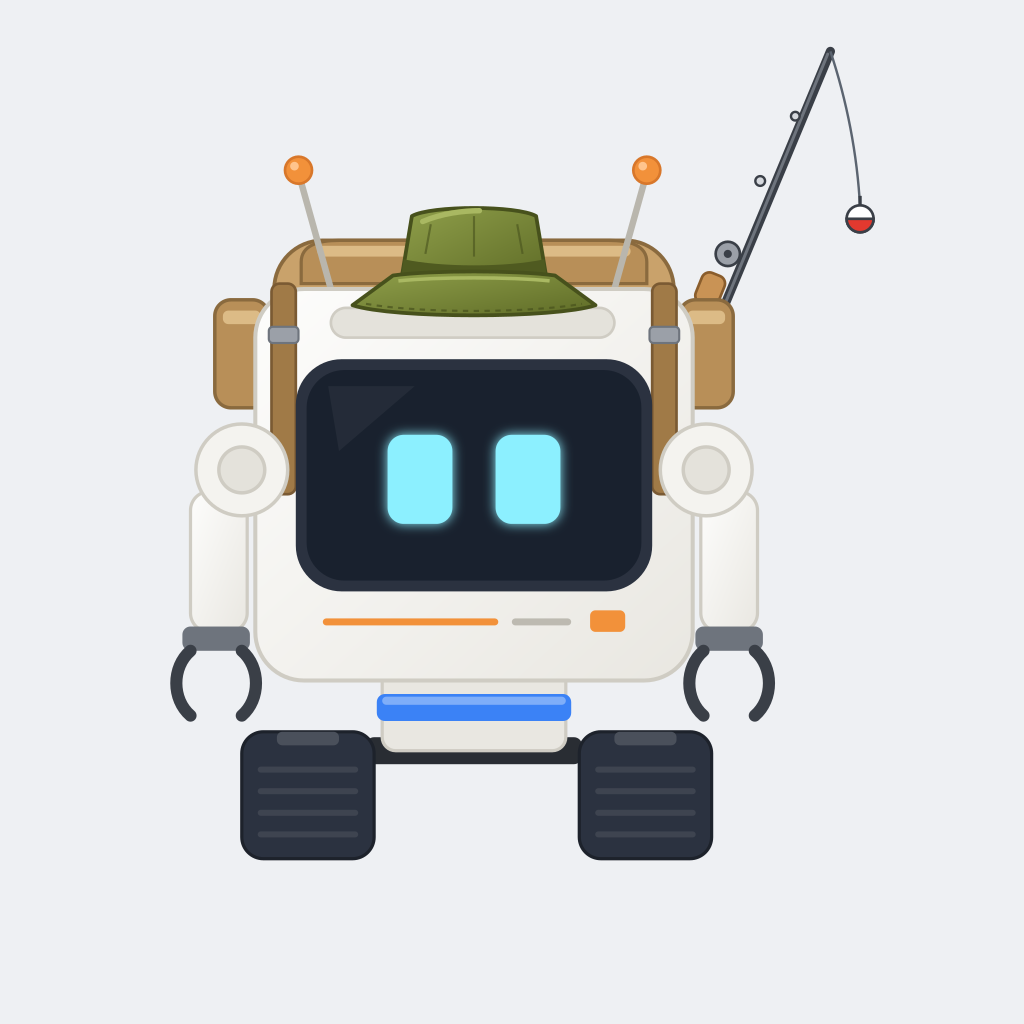
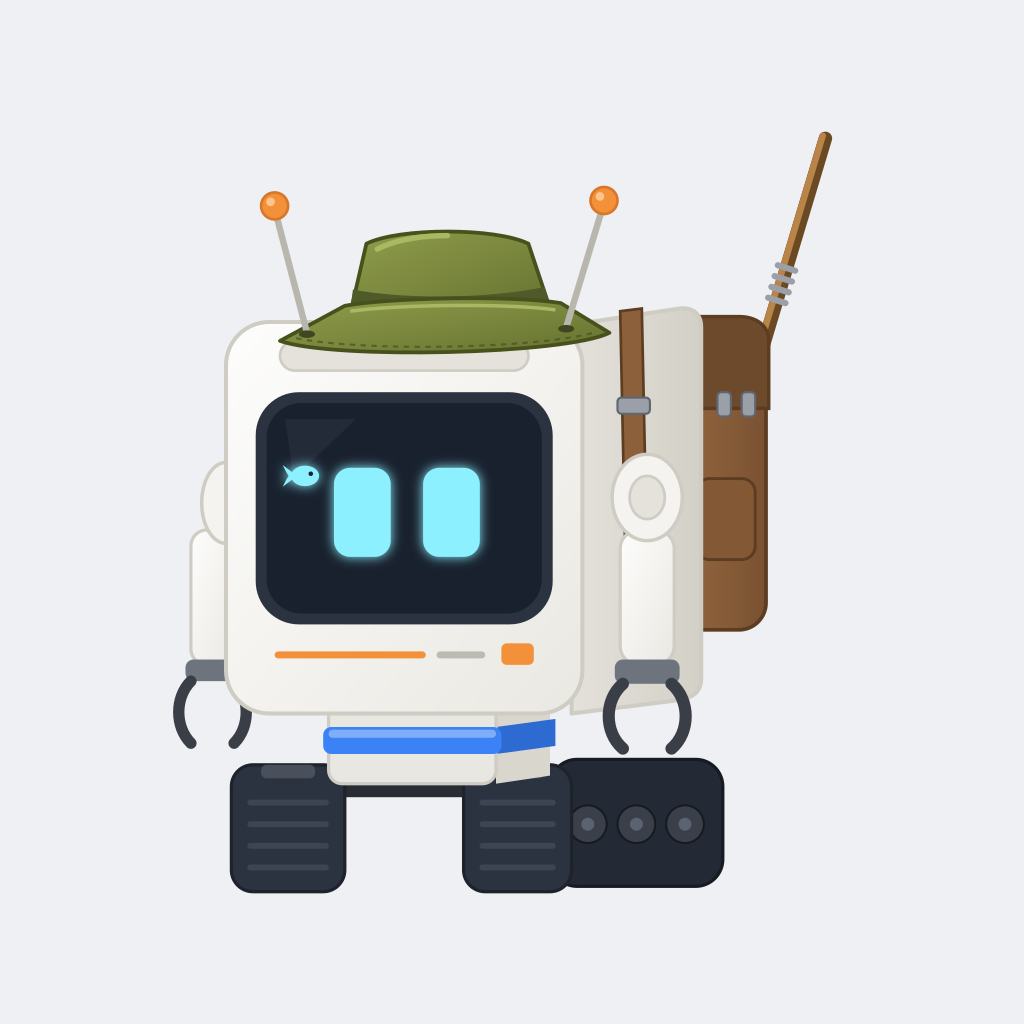
docs: define o Pescador

Changed region(s): [[0.1562, 0.0312, 0.875, 0.875]]

diff --git a/_docs/funcionalidades/trabalhos/pescador.md b/_docs/funcionalidades/trabalhos/pescador.md
@@ -1,18 +1,18 @@
 # Pescador
 
-Conceito do trabalho de Pescador, da Fase 5.2. Nada aqui está implementado, e o documentado pode mudar se aparecer um impedimento técnico (regra 48 do `AGENTS.md`). Ele complementa [`trabalhos.md`](../trabalhos.md), cujas regras de toda área valem aqui.
+Conceito do trabalho de Pescador, da Fase 5.2, entregue no card #194. O documentado pode mudar se aparecer um impedimento técnico (regra 48 do `AGENTS.md`). Ele complementa [`trabalhos.md`](../trabalhos.md), cujas regras de toda área e a [base do trabalho](../trabalhos.md#base-do-trabalho) valem aqui.
 
-**Situação:** o comportamento base está decidido na [pergunta 248](../../perguntas/fase-5-trabalhos.md). O tier mínimo, o Avançado, está decidido na pergunta 1145. A evolução por tier é proposta, e os detalhes em aberto são respondidos no refinamento do card (perguntas 1153 e 1154).
+**Situação:** decidido. O comportamento base vem da [pergunta 248](../../perguntas/fase-5-trabalhos.md), o tier mínimo, o Avançado, da pergunta 1145, e o refinamento do card, das perguntas 1181 a 1204. Os números ficam em [`tiers.md`](../../tiers.md#trabalhos).
 
 ## A ideia
 
-Um Cubit que pesca sozinho numa área com água aberta, sem vara e sem boia, e guarda o que pegar. É o trabalho mais simples da lista e um dos dois primeiros da ordem de entrega, junto do Fazendeiro.
+Um Cubit que pesca sozinho na água da área marcada, sem vara e sem boia de verdade, e guarda o que pegar. É o primeiro trabalho da ordem de entrega.
 
 ## Imagem conceito
 
 ![O Cubit Pescador](../../imagens/conceito/trabalhos/pescador.png)
 
-Aceita como conceito (pergunta 1177). A vara é só visual: no visual do Pescador, ele a segura, mas a pesca continua sem vara e sem boia, como na pergunta 248. O visual final é decidido no card da personalização.
+O visual da pergunta 1196, com o chapéu, a mochila com a vara e o ícone de peixe na tela, aceito na pergunta 1212. Substitui a imagem da pergunta 1177.
 
 ## Card
 
@@ -22,41 +22,106 @@ Aceita como conceito (pergunta 1177). A vara é só visual: no visual do Pescado
 
 Segue as regras dos outros cards: slot exclusivo, um por Cubit, sai sem perda e só age em área marcada. Disponível a partir do Avançado.
 
+### Receita
+
+Com forma, em JSON gerado por datagen e só com materiais do jogo puro (pergunta 1192):
+
+```text
+P C P
+R F R
+P R P
+```
+
+| Letra | Item | Quantidade |
+|---|---|---|
+| `P` | Papel | 4 |
+| `C` | Comparador | 1 |
+| `R` | Redstone | 3 |
+| `F` | Vara de pesca | 1 |
+
+## Como o player o põe para pescar
+
+Sem app novo no Tablet (pergunta 1186). Com o card no slot:
+
+1. O app Área marca os dois cantos da área, como no [modo área](../modo-area.md). A área de um Cubit com o card do Pescador é a área de pesca.
+2. O app Descarga marca o baú onde ele guarda o que pescou, como na [descarga em baú](../inventario.md#descarregar-em-baú).
+
+O app de marcar blocos do trabalho (pergunta 1155) continua para o primeiro card que precisar dele.
+
 ## Como ele trabalha
 
-Definido na pergunta 248:
+### O ponto de pesca
 
-- **Onde:** na área marcada com água aberta.
-- **Como:** pesca pela tabela de pesca do jogo, em intervalos do config, gastando FE, sem vara e sem boia.
-- **Inventário cheio:** descarrega no baú marcado. Sem onde descarregar, hiberna.
+- **Varredura:** ele procura, dentro da área e só nos chunks carregados, um lugar livre, de pé, na margem de água-fonte, e um ponto de água-fonte a até 6 blocos dele, o alcance do lançamento. Dá preferência a um ponto com água aberta, que libera o tesouro. O lugar e o ponto ficam dentro da área (perguntas 1188 e 1208).
+- **Quando varre:** ao chegar na área, ao acordar pelo `Retomar` e quando o ponto deixa de servir, com o limite de blocos lidos por tick de [`tiers.md`](../../tiers.md#valores-gerais). Pescando, ele confere o ponto a cada pesca (pergunta 1204). A água aberta pede um lago com mais de 5×5 blocos e 2 de fundo, porque a margem não pode cair no volume de 5×5 em volta do ponto.
+- **Vários Pescadores:** cada um reserva o seu ponto, e outro não o usa (pergunta 1189). O limite de Cubits por área continua o mesmo.
+- **Sem ponto:** se a varredura completa não achar ponto livre, ele hiberna fora do Dock pelo motivo `No water in the area` / `Sem água na área`, com o texto curto `I can't find water to fish here` / `Não acho água para pescar aqui`. O texto sai uma vez ao hibernar, e de novo se o `Retomar` não resolver (perguntas 1187, 1188 e 1195).
 
-## Evolução por tier (proposta)
+### A pesca
 
-O tier melhora o que o card faz (pergunta 192). Proposta no mesmo meio-termo das opções do Minerador (pergunta 202):
+- **Tempo:** como no jogo (pergunta 1184). A espera é sorteada entre 100 e 600 ticks, menos 100 por nível de Isca, e depois vem a mordida, de 20 a 80 ticks. Na chuva, cada tick tem 25% de chance de contar dois, e, sem céu, 50% de chance de não contar. Os limites ficam no config. Na média, uma pesca leva cerca de 20 s sem Isca e cerca de 7 s com Isca III.
+- **Prêmio:** sai da tabela do jogo, `minecraft:gameplay/fishing`, com a Sorte do Mar do tier somada à sorte. O jogo dá tesouro só em água aberta e confere isso pela boia, então o Cubit usa uma boia virtual, fora do mundo, só para a conta.
+- **Água aberta:** a regra do jogo, de `FishingHook.calculateOpenWater`: um volume de 5×4×5 em volta do ponto na água, em camadas, só com água-fonte embaixo e ar ou vitória-régia em cima. Fora dela, ele pesca só peixe e lixo (pergunta 1183).
+- **Custo:** um valor fixo de FE por peixe pescado. Parado, o Cubit não gasta nada, e a espera também não (pergunta 1190).
+- **Experiência:** nenhuma. O Cubit não é um player e não gera orbes (pergunta 1203).
+- **Lixo:** com a chave `Keep junk` / `Guardar lixo` desligada, o lixo pescado é descartado sem entrar no inventário nem ir para o chão. Ela fica ligada por padrão (pergunta 1191). Lixo é o item da tag `cubit:fishing_junk`, com os itens do lixo da tabela do jogo, e um item encantado nunca é lixo, para a vara e o arco do tesouro ficarem (pergunta 1207).
+- **Inventário cheio:** descarrega no baú marcado. Sem onde descarregar, hiberna pelo inventário cheio, como na base.
+
+### Na tabela do jogo
+
+Os pesos, conferidos em `gameplay/fishing.json`, são o peso mais a qualidade vezes a sorte:
+
+| Grupo | Peso | Qualidade | Sem Sorte do Mar | Sorte do Mar III |
+|---|---|---|---|---|
+| Lixo | 10 | −2 | 10% | ~4% |
+| Tesouro, só em água aberta | 5 | +2 | 5% | ~11% |
+| Peixe | 85 | −1 | 85% | ~85% |
+
+## Evolução por tier
+
+Decidida na pergunta 1185, com os valores no config:
 
 | Recurso | Avançado | Elite | Ultimate |
 |---|---|---|---|
-| Intervalo entre pescas | Base do config | Menor | Menor ainda |
 | Isca (pesca mais rápido) | — | II | III |
-| Sorte do Mar (mais tesouro) | — | II | III |
+| Sorte do Mar (mais tesouro, menos lixo) | — | II | III |
 
-## Em aberto
+## Aba Trabalho
 
-Cada item traz a recomendação atual, ainda sem resposta.
+Além do que a base mostra, a aba ganha a chave `Keep junk` / `Guardar lixo`, ligada por padrão. Ela fica no NBT da entidade e no item do Cubit, como as outras chaves (pergunta 1191). Hibernando sem água, a aba mostra `Hibernating · No water in the area` / `Hibernando · Sem água na área`.
 
-1. **O que é água aberta.** Recomendação: a mesma regra do jogo para a pesca de tesouro, num bloco de água com água ao redor. Fora dela, ele pesca só a tabela comum, como no jogo.
-2. **Onde ele fica.** Recomendação: na borda da água, dentro da área. Se não houver água na área, avisa e hiberna.
-3. **Opções no meio-termo.** Recomendação: Isca e Sorte do Mar como na tabela acima, com os valores no config.
-4. **Vários Pescadores na mesma água.** Recomendação: cada um reserva um ponto da borda, até o limite de Cubits por área.
-5. **Filtro.** Recomendação: um filtro na aba Trabalho para descartar lixo, como botas e varas velhas, que ficam no chão ou nem são guardadas.
-6. **Clima.** Recomendação: a chuva acelera a pesca, como no jogo.
-7. **Visual.** Recomendação: um chapéu de pescador ou uma rede na garra, pela personalização por card da Fase 5.2.
-8. **Números para `tiers.md`.** O intervalo do Pescador já está em "A definir". Entram também o custo por pesca e os níveis de Isca e Sorte do Mar.
+## Visual
+
+Só visual: a pesca continua sem vara e sem boia (perguntas 248 e 1196).
+
+- **Quando:** sempre que o card está no slot, até seguindo o player (pergunta 1197).
+- **Chapéu e mochila:** ossos novos no modelo GeckoLib, `fisher_hat` e `fisher_backpack`, escondidos sem o card, com uma textura própria feita por prompt (pergunta 1200). O chapéu cobre o topo e esconde o painel solar, que continua carregando (pergunta 1201).
+- **Vara:** a vara de pesca do jogo, desenhada por uma camada do GeckoLib, fica na mochila. Pescando, ela passa para a garra direita, e ele ergue o braço numa animação nova, `fishing`. Fora da pesca, ela volta para a mochila (pergunta 1199).
+- **Ícone na tela:** um peixe pequeno, feito por prompt, no canto esquerdo da tela, por cima da expressão. Brilha no escuro como a tela, aparece em todas as expressões e some quando a tela apaga, desligado ou hibernando. Cada card terá o seu ícone (pergunta 1202).
+- **Efeitos:** sem linha e sem boia. A cada peixe, as partículas de respingo e o som do jogo de recolher a linha, no ponto da água (pergunta 1198).
+
+## Contrato
+
+| Tipo | Nome | O que guarda |
+|---|---|---|
+| Receita | `cubit:ml_fisher` | A receita do card, em `data/cubit/recipe/` |
+| Tag de item | `cubit:fishing_junk` | O lixo que a chave `Keep junk` descarta: vitória-régia, botas de couro, couro, osso, poção, linha, vara de pesca, tigela, graveto, bolsa de tinta, gancho, carne podre e bambu. O pack pode editar |
+| Motivo de hibernar | `no_water`, no NBT `HibernationReason` | Sem ponto de pesca na área |
+| NBT da entidade | `KeepJunkEnabled` | A chave `Keep junk`. Sem a chave, vale ligada |
+| Componente do item | `keep_junk_enabled`, em `cubit:robot_state` | A mesma chave no item do Cubit e no Damaged Cubit. Sem o campo, vale ligada |
+| Config, por tier | `fisher_lure_level` e `fisher_luck_level` | Os níveis de Isca e de Sorte do Mar, de 0 a 3 |
+| Config, por tier | `fisher_catch_cost` | O custo por peixe pescado |
+| Config, `general` | `fisher_wait_min_ticks`, `fisher_wait_max_ticks`, `fisher_bite_min_ticks`, `fisher_bite_max_ticks` e `fisher_lure_ticks_per_level` | Os limites do tempo da pesca |
+| Config, `general` | `fisher_cast_reach_blocks` | O alcance do lançamento, de 1 a 16, com 6 (pergunta 1208) |
+
+A reserva dos pontos fica só na memória do servidor e não vai para o save.
 
 ## Histórico de modificações
 
 | Pessoa | Data e hora | Modificação |
 |---|---|---|
+| Marcelo Fabiano | 2026-11-15 09:30 | Troca a imagem conceito pela do visual novo (pergunta 1212). |
+| Marcelo Fabiano | 2026-11-14 23:10 | Fecha o refinamento do card #194, com as perguntas 1181 a 1204: o app Área, o ponto de pesca, o tempo e a tabela do jogo, a evolução por tier, o lixo, com a tag da pergunta 1207, a receita, o visual e o contrato. |
 | Marcelo Fabiano | 2026-11-14 21:37 | Acrescenta a imagem conceito do Pescador (pergunta 1177). |
 | Marcelo Fabiano | 2026-11-14 20:25 | Leva o conceito de `tmp/fase5` para `_docs`, com as decisões da consolidação (perguntas 1145 a 1156). |
 | Marcelo Fabiano | 2026-11-13 11:43 | Cria o conceito do Pescador, com o comportamento da pergunta 248 e a proposta de evolução por tier. |

diff --git a/_docs/perguntas/fase-5-trabalhos.md b/_docs/perguntas/fase-5-trabalhos.md
@@ -124,11 +124,48 @@ Não há perguntas pendentes nesta fase.
 | 1177 | A imagem conceito do Pescador, com uma vara com boia e uma moldura marrom, vale? | Vale, como conceito. O desenvolvedor disse: "quando for fazer coloque a vara é so visual". No visual do Pescador, ele segura a vara, mas a pesca continua sem vara e sem boia, como na pergunta 248 |
 | 1178 | Valem as decisões pequenas da implementação da base? | Sim: entrar na hibernação fora do Dock fica em silêncio, e acordar toca o som de ligar; o Jade mostra `State: Hibernating` também fora do Dock; e os textos `Card`, `Needs %s` / `Pede o %s`, `Wakes it · it sleeps again if the reason stays` / `Acorda · ele dorme de novo se o motivo seguir`, `Hibernating · use Resume first` / `Hibernando · use o Retomar antes` e o item `Machine Learning: Fisher` / `Aprendizado de Máquina: Pescador` |
 | 1179 | O `AGENTS.md` pode ganhar as classes novas da base na estrutura de pacotes, neste PR? | Sim, num commit próprio de docs |
+| 1180 | Depois da base do trabalho (PR #209), o roteiro segue para o Pescador? | Sim: o card #194, o Pescador, entra em Refinamento, pelo alinhamento e pela rodada de perguntas. A marcação do card 2 no `checklist.md` entra no primeiro commit do PR do Pescador |
+| 1181 | Há algo a acrescentar ao alinhamento do Pescador (card #194), antes da rodada de decisões? | Não: o desenvolvedor disse "continue". O alinhamento segue como apresentado, e a rodada de decisões começa |
+| 1182 | Como o Pescador acha a água onde pesca, dentro da área? | Por um app do Tablet, agora: o app que marca os blocos do trabalho (resposta 1155) entra no card do Pescador e depois vale para os outros cards. Os detalhes do app ficam nas respostas seguintes |
+| 1183 | O que conta como água aberta, que libera o tesouro? | A regra do jogo, conferida em `FishingHook.calculateOpenWater` do NeoForge 21.1.265: um volume de 5×4×5 em volta do ponto na água, em camadas, só com água-fonte embaixo e ar ou vitória-régia em cima. Fora disso, ele pesca só peixe e lixo, como no jogo |
+| 1184 | Como fica o tempo de cada pesca? | Como no jogo: a espera é sorteada entre 100 e 600 ticks, menos 100 por nível de Isca, mais a mordida de 20 a 80 ticks. A chuva acelera, e um lugar sem céu atrasa. Os limites ficam no config |
+| 1185 | Qual é a evolução por tier da Isca e da Sorte do Mar? | A proposta do conceito, com os valores no config: o Avançado sem Isca e sem Sorte do Mar, o Elite com Isca II e Sorte do Mar II, e o Ultimate com Isca III e Sorte do Mar III |
+| 1186 | Que nome, chave e cor recebe o app de marcar do Tablet, e quando ele aparece? | Nenhum app novo. O desenvolvedor disse: "não seria uma opção usar o que já temos, o app de área: quando selecionamos o Cubit com a profissão pescador, ele já entende que a área será para pesca, e assim selecionamos os pontos da área 3D e depois, por último, escolhemos o baú que ele irá usar". O Pescador usa o app Área e o app Descarga, e a área de um Cubit com o card é a área de pesca. Muda a resposta 1182, e o app de marcar blocos (resposta 1155) continua para o primeiro card que precisar dele |
+| 1187 | O que acontece se ele não tiver onde pescar? | Hiberna fora do Dock por um motivo novo, com um texto curto. O texto do motivo acompanha a resposta 1186 e é confirmado na rodada seguinte |
+| 1188 | Dentro da área, como o Pescador escolhe onde pescar, e qual é o motivo de hibernar sem água? | Ele varre a área em intervalos, só nos chunks carregados, atrás de um bloco de terra livre ao lado de água-fonte, e prefere um ponto com água aberta (resposta 1183). Sem ponto, hiberna com o motivo `No water in the area` / `Sem água na área`, e o texto curto pede uma área com água. Completa a 1187 |
+| 1189 | Como vários Pescadores dividem a mesma água? | Cada um reserva o seu ponto da borda, e outro não o usa. Sem ponto livre, quem chegou depois hiberna com o motivo de sem água, como na regra de toda área |
+| 1190 | Qual é o custo por pesca? | 300 FE por peixe pescado, no config por tier, com o mesmo valor nos três tiers. O gasto por hora sobe com a Isca dos tiers mais altos |
+| 1191 | Entra um filtro de lixo na aba Trabalho? | Sim: uma chave `Keep junk` / `Guardar lixo`, ligada por padrão. Desligada, o lixo pescado é descartado sem entrar no inventário nem ir para o chão. Fica no NBT da entidade e no item |
+| 1192 | Qual é a receita do card `cubit:ml_fisher`? | Uma receita com forma, `PCP` / `RFR` / `PRP`: vara de pesca no centro, comparador em cima, 3 redstone e 4 papéis, em JSON gerado por datagen |
+| 1193 | A vara visual do Pescador (resposta 1177) entra neste card ou no card da personalização (#202)? | Neste card. Os detalhes do modelo e da animação ficam nas respostas seguintes |
+| 1194 | O item 7 do `pescador.md`, com o chapéu ou a rede, pode ser atualizado neste PR? | Sim: passa a apontar para as respostas 1177 e 1193 |
+| 1195 | Qual é o texto curto ao hibernar sem água na área? | `I can't find water to fish here` / `Não acho água para pescar aqui`, uma vez ao hibernar e de novo se o `Retomar` não resolver, como na resposta 1174 |
+| 1196 | Como a vara visual do Pescador é desenhada no modelo? | O desenvolvedor disse: "poderia ter chapéu, mochila e na mochila a vara de pesca do jogo, só que somente ilustrativa, no visor um ícone pequeno no lado esquerdo de peixe". O visual do Pescador é um chapéu, uma mochila com a vara de pesca do jogo, só ilustrativa, e um ícone pequeno de peixe no lado esquerdo da tela do rosto. Muda o visual da resposta 1177, e a pesca continua sem vara e sem boia (pergunta 248). Os detalhes ficam nas respostas seguintes |
+| 1197 | Quando o visual do Pescador aparece? | Sempre que o card está no slot, até seguindo o player |
+| 1198 | Entram linha, boia, animação ou efeitos ao pescar? | Sem linha e sem boia. A cada peixe, as partículas de respingo e o som do jogo de recolher a linha, no ponto da água. A pose fica para a rodada seguinte, porque a vara agora fica na mochila (resposta 1196) |
+| 1199 | Com a vara na mochila (resposta 1196), como fica a pose ao pescar? | Pescando, a vara sai da mochila para a garra direita, e ele ergue o braço, numa animação nova `fishing`. Fora da pesca, ela volta para a mochila. Completa a 1198 |
+| 1200 | Como entram o chapéu e a mochila? | Como ossos novos no modelo GeckoLib, `fisher_hat` e `fisher_backpack`, escondidos sem o card. A textura própria e uma imagem conceito nova são feitas por prompt, em `tmp/arte/pescador/prompt.md`. A vara, na mochila e na garra, é o item do jogo, desenhado por uma camada do GeckoLib |
+| 1201 | Como o chapéu convive com o painel solar, no topo do corpo? | O chapéu cobre o topo e esconde o painel, que continua carregando, porque o chapéu é só visual |
+| 1202 | Como fica o ícone de peixe na tela? | Uma textura pequena, feita por prompt, sobre a tela, por cima da expressão, no canto esquerdo. Brilha no escuro como a tela, aparece em todas as expressões e some quando a tela apaga, desligado ou hibernando. Cada card terá o seu ícone |
+| 1203 | O Pescador dá experiência a cada peixe, como o jogo dá ao player? | Não: o Cubit não é um player e não gera orbes. A pesca só dá os itens, o que evita uma fazenda de XP automática |
+| 1204 | Quando ele varre a área atrás de água, e o que faz se o ponto deixar de servir? | Varre ao chegar na área, ao acordar pelo `Retomar` e quando o ponto deixa de servir, com o limite atual de 2.000 blocos lidos por tick. Pescando, confere o ponto a cada pesca. Se a varredura completa não achar ponto, hiberna sem água (resposta 1188). Nenhum número novo no config |
+| 1205 | O `config.md` sem a chave `allowed_jobs` e o `decisoes.md` sem o resumo das perguntas 1159 a 1179, da base do trabalho, são corrigidos no PR do Pescador? | Sim, pela Regra do Escoteiro, num commit próprio de docs, separado do Pescador |
+| 1206 | As chances da chuva (25% de um tick extra) e do lugar sem céu (50% de perder o tick) ficam no config? | Não: ficam como constantes nomeadas no domínio, iguais às do jogo, com o `FishingHook` citado. O config guarda só os limites do tempo (resposta 1184) |
+| 1207 | A tabela de pesca do jogo não diz se um item veio do lixo: ela sorteia as subtabelas `junk`, `treasure` e `fish` e devolve só os itens, e a vara aparece no lixo e no tesouro. Como o Cubit reconhece o lixo? | Por uma tag de item nova, `cubit:fishing_junk`, que o pack pode editar, com os itens de `gameplay/fishing/junk` do jogo: vitória-régia, botas de couro, couro, osso, poção, linha, vara de pesca, tigela, graveto, bolsa de tinta, gancho, carne podre e bambu. Um item encantado nunca é lixo, para a vara e o arco do tesouro ficarem. Detalha a 1191, pela regra 48 |
+| 1208 | A água aberta do jogo é conferida num volume de 5×5 em volta da boia, então um ponto colado na margem nunca é aberto. A que distância do lugar onde ele fica pode estar o ponto da água? | Até 6 blocos, numa chave nova, `fisher_cast_reach_blocks`, em `general`, de 1 a 16. Ele fica na margem e escolhe um ponto de água-fonte nesse alcance, de preferência com água aberta, e os respingos saem nesse ponto. Muda a 1204, que não previa número novo, pela regra 48 |
+| 1209 | Valem as decisões pequenas da implementação do Pescador? | Sim: na área, o Pescador não busca os itens do chão nem faz a ronda, como a resposta 1166 previa para cada card; com o inventário cheio, espera sem pescar até descarregar; um lugar que ele não alcança fica de fora até o `Retomar`; e os textos `Keep junk` / `Guardar lixo`, com a dica `Off · junk such as boots is thrown away` / `Desligada · o lixo, como botas, é descartado`, e o motivo `No water in the area` / `Sem água na área` |
+| 1210 | O visual do Pescador segue agora, com o modelo, a animação `fishing`, as camadas e o prompt da textura com um gabarito do mapa UV? | Sim. O desenvolvedor devolve as três artes, a imagem conceito, o ícone de peixe e a textura, em `tmp/arte/pescador/` |
+| 1211 | O `AGENTS.md` pode ganhar as classes novas do Pescador na estrutura de pacotes, neste PR? | Sim, num commit próprio de docs, como na resposta 1179 |
+| 1212 | As três artes do Pescador valem: a imagem conceito nova, o ícone de peixe e a textura do chapéu e da mochila? | Sim: o desenvolvedor disse "seguir". A imagem conceito substitui a da pergunta 1177, a textura entra no mod e o ícone é montado por script na textura da tela |
+| 1213 | O card do Pescador entra na aba do mod no modo criativo? | Sim: o desenvolvedor não o encontrou no criativo, e, com a receita e o trabalho, ele deixa de ser só de `/give`, como era na base (resposta 1161). Entra depois dos Modules |
+| 1214 | Os testes do Pescador passaram, inclusive o teste com 20 a 30 robôs (resposta 1144), e os cinco commits do plano estão autorizados? | Sim: o roteiro manual e o teste com 20 a 30 robôs passaram, e o plano de commits foi autorizado |
 
 ## Histórico de modificações
 
 | Pessoa | Data e hora | Modificação |
 |---|---|---|
+| Marcelo Fabiano | 2026-11-14 22:40 | Registra as respostas 1181 a 1214. |
+| Marcelo Fabiano | 2026-11-14 22:14 | Registra a resposta 1180. |
 | Marcelo Fabiano | 2026-11-14 21:36 | Registra as respostas 1176 a 1179. |
 | Marcelo Fabiano | 2026-11-14 20:54 | Registra as respostas 1173 a 1175. |
 | Marcelo Fabiano | 2026-11-14 20:51 | Registra as respostas 1169 a 1172. |

diff --git a/_docs/funcionalidades/trabalhos.md b/_docs/funcionalidades/trabalhos.md
@@ -1,6 +1,6 @@
 # Trabalhos
 
-Conceito da Fase 5, planejada para depois da Fase 4. Nada aqui está implementado, e o documentado pode mudar se aparecer um impedimento técnico (regra 48 do `AGENTS.md`). As decisões ficam em [`fase-5-trabalhos.md`](../perguntas/fase-5-trabalhos.md), nas perguntas 190 a 256 e 1136 a 1156. O conceito de cada trabalho fica na pasta [`trabalhos/`](trabalhos/) (pergunta 1148).
+Conceito da Fase 5, planejada para depois da Fase 4. Nada aqui está implementado, e o documentado pode mudar se aparecer um impedimento técnico (regra 48 do `AGENTS.md`). As decisões ficam em [`fase-5-trabalhos.md`](../perguntas/fase-5-trabalhos.md), nas perguntas 190 a 256 e 1136 a 1204. O conceito de cada trabalho fica na pasta [`trabalhos/`](trabalhos/) (pergunta 1148).
 
 Números: [`tiers.md`](../tiers.md#trabalhos). Nomes e IDs previstos: [`itens.md`](../itens.md#previstos-na-fase-5).
 
@@ -29,13 +29,13 @@ O mod funciona numa instância só com ele e suas dependências. Tudo aceita red
 | Elite | Os do Avançado, mais Organizador, Cozinheiro, Defensor e Minerador |
 | Ultimate | Os do Elite, mais Construtor, Mecânico e Alquimista |
 
-O tier também melhora o que o card faz, com mais velocidade, alcance ou opções. A evolução de cada card é proposta e é decidida no refinamento dele, com os números em [`tiers.md`](../tiers.md#trabalhos) (perguntas 1144 e 1154). A do Minerador e a do Defensor já estão decididas (perguntas 1149 e 1150).
+O tier também melhora o que o card faz, com mais velocidade, alcance ou opções. A evolução de cada card é proposta e é decidida no refinamento dele, com os números em [`tiers.md`](../tiers.md#trabalhos) (perguntas 1144 e 1154). A do Minerador e a do Defensor já estão decididas (perguntas 1149 e 1150), e a do Pescador foi decidida no card dele (pergunta 1185).
 
 ### Os trabalhos
 
 | Trabalho | Card | Tier mínimo | O que faz | Conceito |
 |---|---|---|---|---|
-| Pescador | `cubit:ml_fisher` | Avançado | Pesca na água aberta da área, sem vara | [`pescador.md`](trabalhos/pescador.md) |
+| Pescador | `cubit:ml_fisher` | Avançado | Pesca na água da área, sem vara de verdade, pela tabela do jogo | [`pescador.md`](trabalhos/pescador.md) |
 | Fazendeiro | `cubit:ml_farmer` | Avançado | Colhe o que amadureceu e replanta | [`fazendeiro.md`](trabalhos/fazendeiro.md) |
 | Pecuarista | `cubit:ml_rancher` | Avançado | Alimenta, tosquia, recolhe ovos e controla o rebanho | [`pecuarista.md`](trabalhos/pecuarista.md) |
 | Organizador | `cubit:ml_organizer` | Elite | Recolhe e guarda nos baús certos, ou abastece destinos | [`organizador.md`](trabalhos/organizador.md) |
@@ -59,7 +59,7 @@ Os itens "Em aberto" de cada conceito são respondidos no refinamento do card da
 2. O processo só termina ao escolher o Cubit no Tablet. Ele deixa de seguir e vai para a área, como no [modo área](modo-area.md) da Fase 4.2.
 3. O Tablet também manda descarregar ou ir ao Dock, pelos botões `Descarregar` e `Ir para o Dock`.
 
-Os baús são marcados com o app Descarga do Tablet, e a tela do Cubit tem uma aba Trabalho, com modo e filtros. Marcar os outros blocos do trabalho, como fornos, suportes de poções e água, precisa de um app do Tablet, que o primeiro card que precisar dele decide (pergunta 1155). Se o player recolher o Cubit e colocá-lo de novo, precisa refazer a configuração.
+Os baús são marcados com o app Descarga do Tablet, e a tela do Cubit tem uma aba Trabalho, com modo e filtros. Marcar os outros blocos do trabalho, como fornos e suportes de poções, precisa de um app do Tablet, que o primeiro card que precisar dele decide (pergunta 1155). O Pescador não precisa: ele acha sozinho a água da área (pergunta 1186). Se o player recolher o Cubit e colocá-lo de novo, precisa refazer a configuração.
 
 ## Regras de toda área
 
@@ -95,7 +95,7 @@ Uma aba `Work` / `Trabalho` na tela do Cubit e na tela do Cubit no Tablet, com u
 Estado semelhante ao desligado, mas com o inventário e as configurações acessíveis. O Cubit fica imóvel e sem tarefas, como dormindo (perguntas 198 e 1164).
 
 - **Estado:** `HIBERNATING_AWAY`, no NBT `PowerState`, com o motivo no NBT `HibernationReason`. A hibernação no Dock continua como está e sai sozinha (perguntas 55 e 1164).
-- **Motivo, na base:** só o inventário cheio: o Cubit com card, na área, cheio e sem baú marcado com espaço. Sem card, ele segue como nas perguntas 1052 e 1088. Cada trabalho acrescenta os seus motivos (perguntas 196 e 1165).
+- **Motivo, na base:** só o inventário cheio, e o Pescador acrescenta o `Sem água na área` (pergunta 1188): o Cubit com card, na área, cheio e sem baú marcado com espaço. Sem card, ele segue como nas perguntas 1052 e 1088. Cada trabalho acrescenta os seus motivos (perguntas 196 e 1165).
 - **Parado:** sem choque, coleta, ímã, tochas, falas e scanners, com a lanterna apagada e sem consumo. O painel solar continua carregando (pergunta 1170).
 - **Na tela:** `Hibernating · Inventory full` / `Hibernando · Inventário cheio`, em azul, com a expressão de sono (perguntas 1168 e 1173).
 - **Texto curto:** `I'm full and have nowhere to unload` / `Estou cheio e não tenho onde descarregar`, uma vez ao hibernar, e de novo se o `Retomar` não resolver (pergunta 1174).
@@ -181,6 +181,7 @@ A ordem segue a pergunta 251, com o Mecânico e o Alquimista no fim dos trabalho
 
 | Pessoa | Data e hora | Modificação |
 |---|---|---|
+| Marcelo Fabiano | 2026-11-14 23:10 | Liga o conceito do Pescador, que usa o app Área e acrescenta o motivo sem água (perguntas 1181 a 1204). |
 | Marcelo Fabiano | 2026-11-14 20:52 | Define a base do trabalho: o slot do card, o tier, a aba Trabalho e a hibernação fora do Dock (perguntas 1160 a 1172). |
 | Marcelo Fabiano | 2026-11-14 20:27 | Consolida a Fase 5: os trabalhos por tier, o Mecânico e o Alquimista, os conceitos na pasta `trabalhos/`, o Tablet no lugar do controle e a ordem do board (perguntas 1136 a 1156). |
 | Marcelo Fabiano | 2026-11-13 16:40 | Troca o Cubit Remote pelo app Área do Tablet. |

diff --git a/_docs/decisoes.md b/_docs/decisoes.md
@@ -124,6 +124,7 @@ Resumo do que já foi decidido no projeto. As perguntas, abertas e respondidas, 
 - **Trabalhos (Fase 5, planejada):** um único Cubit, com um card por vez, age só em área marcada e nunca sai dela. Antena e Servidor mantêm os chunks carregados, de forma opcional. Sem chunk de destino, ele espera. O detalhe está em [`trabalhos.md`](funcionalidades/trabalhos.md).
 - **Consolidação da Fase 5 (perguntas 1136 a 1156):** a fase é entregue como um kanban, no GitHub Project "Cubit · Fase 5", um card por vez, cada um numa issue e num PR, na ordem da pergunta 251, com a base e os trabalhos primeiro e a infraestrutura no fim. Cada card tem o seu tier mínimo: Pescador, Fazendeiro e Pecuarista no Avançado; Organizador, Cozinheiro, Defensor e Minerador no Elite; Construtor, Mecânico e Alquimista no Ultimate. O Mecânico (`cubit:ml_mechanic`) e o Alquimista são novos, e o Mecânico usa o inventário do Dock da Fase 4.1. O Minerador perde Inquebrável e Remendo e ganha a fornalha elétrica, e o Defensor reage pelo modo de defesa. Os conceitos ficam em `funcionalidades/trabalhos/`, e os itens em aberto e as evoluções por tier são decididos no refinamento de cada card.
 - **Base do trabalho (perguntas 1159 a 1179, card #193):** o slot do card fica depois do das tochas, apagado no Base, e aceita um item da tag `cubit:ml_cards`, se o tier o permitir pela lista `allowed_jobs`. O card fica no componente `cubit:card_slot` e no NBT `CardSlot`. Com card na área, o estado é `Working · Fisher`, e ele faz o mesmo que sem card até o trabalho existir. A aba Trabalho, na tela do Cubit e no Tablet, mostra o card, o estado e o `Retomar`. A hibernação fora do Dock, `HIBERNATING_AWAY`, deixa o Cubit imóvel e sem consumo, com o inventário acessível, tem na base só o motivo do inventário cheio, não acorda com dano e acaba ao tirar o card. O `Follow` e o `Ir para o Dock` também o acordam.
+- **Pescador (perguntas 1181 a 1204, card #194):** sem app novo, o Cubit com o card usa a área do app Área como área de pesca e o baú do app Descarga. Ele acha sozinho um ponto na borda de água-fonte, com preferência pela água aberta da regra do jogo, e cada Pescador reserva o seu. Sem ponto, hiberna por `no_water`. A pesca segue o jogo: o tempo de `FishingHook`, a tabela `gameplay/fishing` com uma boia virtual, Isca e Sorte do Mar II no Elite e III no Ultimate, 300 FE por peixe e sem experiência. A chave `Keep junk` descarta o lixo. A receita usa papel, comparador, redstone e vara de pesca. O visual, sempre com o card, tem chapéu, mochila com a vara do jogo, que vai para a garra ao pescar, e um peixe na tela.
 - **Modo Focus (perguntas 843 a 853):** o modo só o alvo se chama `Focus` e libera no Advanced. Só dá o choque no último mob que o dono feriu, com qualquer dano, sem perseguir, e um neutro ferido também vira alvo. Sem alvo, age como o Contra-atacar. O alvo acaba ao morrer, mudar de dimensão ou ficar a mais de 32 blocos do dono. Ganha uma seta amarela e maior, e o texto `Cubit: Target: Zombie` ao mudar. A mira pelo controle fica na Fase 4.2 (pergunta 795).
 - **Limites:** nunca ataca o dono, outros players, outros Cubits nem mobs pacíficos. Só ataca mobs neutros para defender o player.
 - **Choque e modos de defesa (perguntas 822 a 834):** entram juntos. O Cubit ativo dá o choque sem perseguir, com linha de visão, no alcance e no intervalo do tier, num alvo, ou em todos no Ultimate, com faíscas e o abate do dono. Pacífico no Base, Contra-atacar a partir do Advanced, com 30 s de memória, e Agressivo a partir do Elite, escolhidos numa aba Defense própria, com o escudo. O modo começa Pacífico e fica no item, e os modos e números de cada tier ficam no config.
@@ -167,6 +168,7 @@ Resumo do que já foi decidido no projeto. As perguntas, abertas e respondidas, 
 | Pessoa | Data e hora | Modificação |
 |---|---|---|
 | Marcelo Fabiano | 2026-11-14 23:20 | Resume a base do trabalho (perguntas 1159 a 1179 e 1205). |
+| Marcelo Fabiano | 2026-11-14 23:10 | Resume o Pescador (perguntas 1181 a 1204). |
 | Marcelo Fabiano | 2026-11-14 20:28 | Resume a consolidação da Fase 5 (perguntas 1136 a 1156). |
 | Marcelo Fabiano | 2026-11-14 18:15 | Resume o local de morte (perguntas 1109 a 1126). |
 | Marcelo Fabiano | 2026-11-14 13:55 | Registra a descarga em baú. |

diff --git a/_docs/desenvolvimento/roteiro-manual.md b/_docs/desenvolvimento/roteiro-manual.md
@@ -889,6 +889,32 @@ As regras estão em [`trabalhos.md`](../funcionalidades/trabalhos.md#base-do-tra
 | 14 | Faça ele morrer com o card e conserte o Damaged Cubit | O card continua no slot |
 | 15 | Com o jogo em português | `Trabalho`, `Trabalhando · Pescador`, `Hibernando · Inventário cheio` e `Retomar` |
 
+## Pescador
+
+As regras estão em [`pescador.md`](../funcionalidades/trabalhos/pescador.md). Use um Cubit Advanced e um Ultimate com carga, o card feito pela receita, o Tablet, um baú, um lago com mais de 5×5 blocos de água-fonte e 2 blocos de profundidade, e uma poça de 2×2 blocos.
+
+| # | Faça | Espere |
+|---|---|---|
+| 1 | Faça o card na bancada: papel, comparador, papel / redstone, vara de pesca, redstone / papel, redstone, papel | Sai o `Machine Learning: Fisher` |
+| 2 | Ponha o card num Cubit Advanced, seguindo você | Aparecem o chapéu, cobrindo o painel solar, a mochila com a vara e o peixe pequeno no canto esquerdo da tela. Ele continua seguindo, sem pescar |
+| 3 | Apague a tela dele com o `Power` | O peixe some junto com a tela |
+| 4 | Ligue de novo e marque, com o app Área, uma área com a borda do lago | Ele vai até a borda, fica de frente para a água, a vara passa para a garra e ele ergue o braço |
+| 5 | Espere algumas pescas | A cada peixe, respingo e o som de recolher a linha no ponto da água, sem linha, sem boia e sem orbes de experiência. Os itens vão para o inventário, em cerca de 20 s cada um |
+| 6 | Marque um baú com o app Descarga e encha o inventário dele | Ele descarrega no baú e volta a pescar |
+| 7 | Desligue `Keep junk` na aba Work e espere várias pescas | Nada de lixo entra no inventário nem cai no chão |
+| 8 | Faça a mesma área só com a poça de 2×2 | Ele pesca só peixe e lixo, sem tesouro, porque a água não é aberta |
+| 9 | Marque uma área sem água | Ele hiberna com `Hibernating · No water in the area` e `I can't find water to fish here`, uma vez |
+| 10 | Clique em `Resume`, ainda sem água | Ele volta a hibernar e repete o texto |
+| 11 | Marque de novo a área do lago e clique em `Resume` | Ele acorda e volta a pescar |
+| 12 | Coloque um bloco no ponto onde ele está pescando | Na pesca seguinte, ele procura outro ponto e vai até ele |
+| 13 | Ponha 3 Pescadores na mesma área do lago | Cada um fica num ponto próprio da borda |
+| 14 | Num lago só com espaço para 2, ponha 3 Pescadores | O terceiro hiberna sem água |
+| 15 | Com chuva, compare o tempo das pescas | Elas saem mais rápido |
+| 16 | Num Cubit Ultimate, pesque por alguns minutos | As pescas saem em cerca de 7 s, com mais tesouro e menos lixo |
+| 17 | Recolha o Cubit e coloque de novo | O card e o `Keep junk` desligado continuam; a área e o baú precisam ser marcados de novo |
+| 18 | Tire o card do slot | O chapéu, a mochila e o peixe somem, e ele volta ao comportamento sem card |
+| 19 | Com o jogo em português | `Guardar lixo`, `Hibernando · Sem água na área` e `Não acho água para pescar aqui` |
+
 ## Tradução
 
 | # | Passo | Resultado esperado |
@@ -948,6 +974,7 @@ Na instância só com o mod, tire capturas com F2 do Cubit seguindo, da tela do 
 
 | Pessoa | Data e hora | Modificação |
 |---|---|---|
+| Marcelo Fabiano | 2026-11-14 23:10 | Adiciona o roteiro do Pescador. |
 | Marcelo Fabiano | 2026-11-14 20:53 | Adiciona o roteiro da base do trabalho. |
 | Marcelo Fabiano | 2026-11-14 18:47 | Adiciona o roteiro do local de morte. |
 | Marcelo Fabiano | 2026-11-14 16:33 | Deixa o filtro e o inventário do player à esquerda. |

diff --git a/_docs/itens.md b/_docs/itens.md
@@ -214,11 +214,15 @@ Estes nomes não mudam sem migração (regra 18 do `AGENTS.md`).
 | Componente do jogo no item | `minecraft:custom_name` | Nome do Cubit, inclusive no item danificado |
 | NBT do jogo na entidade | `CustomName` | Nome do Cubit |
 | Dados do player | `cubit:following_robot` | `robot`: o UUID do robô que segue, ou nada |
-| Item | `cubit:ml_fisher` | O card do Pescador. Na base, só por `/give`, sem receita (perguntas 1161 e 1172) |
+| Item | `cubit:ml_fisher` | O card do Pescador. Na base, só por `/give`, sem receita (perguntas 1161 e 1172). A receita entra no card do Pescador (pergunta 1192) |
+| Tag de item | `cubit:fishing_junk` | O lixo que a chave `Keep junk` do Pescador descarta. Um item encantado nunca é lixo (pergunta 1207) |
+| Receita | `cubit:ml_fisher` | A receita do card do Pescador, em [`pescador.md`](funcionalidades/trabalhos/pescador.md#receita) (pergunta 1192) |
+| NBT da entidade | `KeepJunkEnabled` | A chave `Keep junk` do Pescador. Sem a chave no save, vale ligada (pergunta 1191) |
+| Componente do item | `keep_junk_enabled`, em `cubit:robot_state` | A mesma chave no item. Sem o campo, vale ligada (pergunta 1191) |
 | Tag de item | `cubit:ml_cards` | Os cards que o slot do card aceita (pergunta 1162) |
 | Componente do item | `cubit:card_slot` | O card no slot do card, opcional, também no item danificado (pergunta 1162) |
 | NBT da entidade | `CardSlot` | O card no slot do card, como o `TorchSlot` (pergunta 1172) |
-| NBT da entidade | `PowerState` com `HIBERNATING_AWAY` e `HibernationReason` | A hibernação fora do Dock e o motivo dela. Um motivo inválido vira o inventário cheio, e o log avisa (perguntas 1164 e 1172) |
+| NBT da entidade | `PowerState` com `HIBERNATING_AWAY` e `HibernationReason` | A hibernação fora do Dock e o motivo dela: `inventory_full` ou `no_water`, do Pescador. Um motivo inválido vira o inventário cheio, e o log avisa (perguntas 1164, 1172 e 1188) |
 | Dados do player | `cubit:death_log` | O histórico de mortes do player, descrito em [`tablet.md`](funcionalidades/tablet.md#contrato) (pergunta 1114) |
 
 O estado salvo é validado ao entrar no jogo, sem derrubá-lo (regra 17 do `AGENTS.md`):
@@ -239,6 +243,7 @@ O estado salvo é validado ao entrar no jogo, sem derrubá-lo (regra 17 do `AGEN
 
 | Pessoa | Data e hora | Modificação |
 |---|---|---|
+| Marcelo Fabiano | 2026-11-14 23:10 | Acrescenta a receita, a chave `Keep junk` o motivo `no_water` e a tag `cubit:fishing_junk` do Pescador (perguntas 1188, 1191, 1192 e 1207). |
 | Marcelo Fabiano | 2026-11-14 20:52 | Acrescenta o contrato da base do trabalho (perguntas 1161 a 1164 e 1172). |
 | Marcelo Fabiano | 2026-11-14 20:27 | Acrescenta os cards do Mecânico e do Alquimista (perguntas 1146 e 1147). |
 | Marcelo Fabiano | 2026-11-14 18:17 | Acrescenta a chave do local de morte e o histórico de mortes ao contrato (perguntas 1114 e 1118). |

diff --git a/_docs/tiers.md b/_docs/tiers.md
@@ -188,26 +188,34 @@ Planejado para a Fase 5. O tier Base não aceita cards, e cada card tem o seu ti
 | Minerador: Toque Suave | — | — | — | ✔ |
 | Minerador: fornalha de minérios elétrica, em ~20 FE/t enquanto funde (perguntas 930 e 1149) | — | — | 1× | 2× |
 | Defensor: modos, pela reação escolhida (pergunta 1150) | — | — | Contra-atacar e Agressivo | Contra-atacar e Agressivo. O Focus fica para o card do Defensor |
+| Pescador: Isca, `fisher_lure_level` (pergunta 1185) | — | — | II | III |
+| Pescador: Sorte do Mar, `fisher_luck_level` (pergunta 1185) | — | — | II | III |
+| Pescador: custo por peixe pescado, `fisher_catch_cost` (pergunta 1190) | — | 300 FE | 300 FE | 300 FE |
 | Storage wireless | — | — | — | ✔ |
 
 | Valor geral | Valor |
 |---|---|
 | Cubits por área | Até 3 |
 | Teste antes de fechar um card | 20 a 30 robôs |
+| Pescador: espera antes da mordida, como no jogo (pergunta 1184) | 100 a 600 ticks |
+| Pescador: mordida, como no jogo | 20 a 80 ticks |
+| Pescador: espera a menos por nível de Isca, como no jogo | 100 ticks |
+| Pescador: alcance do lançamento, da margem ao ponto da água (pergunta 1208) | 6 blocos |
 
 **A definir:**
 
 - antenas e chunks por tier do Servidor, área e consumo por tier da antena e teto de chunks no mundo;
 - consumo do Servidor e da antena com o carregamento desligado;
-- custo por ação de cada card e dano do Defensor;
+- custo por ação dos outros cards e dano do Defensor;
 - limites por tick e distância do Dock ao Servidor ou à antena;
-- limite de animais do Pecuarista, intervalo do Pescador e custo do storage e tamanho dos canais;
+- limite de animais do Pecuarista e custo do storage e tamanho dos canais;
 - alcance e viabilidade do feixe da lanterna de cabeça do Minerador.
 
 ## Histórico de modificações
 
 | Pessoa | Data e hora | Modificação |
 |---|---|---|
+| Marcelo Fabiano | 2026-11-14 23:10 | Adiciona os números do Pescador (perguntas 1184, 1185, 1190 e 1208). |
 | Marcelo Fabiano | 2026-11-14 20:52 | Liga os cards por tier à chave `allowed_jobs` (pergunta 1163). |
 | Marcelo Fabiano | 2026-11-14 20:27 | Atualiza os trabalhos por tier, o Minerador e o Defensor (perguntas 1144, 1145, 1149 e 1150). |
 | Marcelo Fabiano | 2026-11-14 18:18 | Cita a chave `death_point` por tier (pergunta 1129). |

diff --git a/_docs/desenvolvimento/config.md b/_docs/desenvolvimento/config.md
@@ -111,6 +111,13 @@ As chaves ficam em `snake_case`. As de um tier ficam em `[general_robot.{tier}]`
 | `general_robot.base` | `pickup_filter_tags` | Filtro de coleta com tags | `true` ou `false` |
 | `general_robot.base` | `power_bank_capacity` | Power Bank (70% da bateria) | 1 a 2147483647 |
 | `general_robot.base` | `allowed_jobs` | Cards de Aprendizado de Máquina que o tier aceita: `fisher`, `farmer`, `rancher`, `organizer`, `cook`, `defender`, `miner`, `builder`, `mechanic` e `alchemist`. Um nome inválido é ignorado e vai para o log | Lista com esses nomes |
+| `general_robot.base` | `fisher_lure_level` | Pescador: Isca | 0 a 3 |
+| `general_robot.base` | `fisher_luck_level` | Pescador: Sorte do Mar | 0 a 3 |
+| `general_robot.base` | `fisher_catch_cost` | Pescador: custo por peixe pescado | 0 a 2147483647 |
+| `general` | `fisher_wait_min_ticks` e `fisher_wait_max_ticks` | Pescador: espera antes da mordida | 1 a 72000 |
+| `general` | `fisher_bite_min_ticks` e `fisher_bite_max_ticks` | Pescador: mordida | 1 a 72000 |
+| `general` | `fisher_lure_ticks_per_level` | Pescador: espera a menos por nível de Isca | 0 a 72000 |
+| `general` | `fisher_cast_reach_blocks` | Pescador: alcance do lançamento | 1 a 16 |
 
 ## Por que esses limites
 
@@ -147,6 +154,7 @@ O mod não cai por causa do config (regra 17 do `AGENTS.md`):
 | Pessoa | Data e hora | Modificação |
 |---|---|---|
 | Marcelo Fabiano | 2026-11-14 23:20 | Adiciona a chave `allowed_jobs`, da base do trabalho (pergunta 1205). |
+| Marcelo Fabiano | 2026-11-14 23:10 | Adiciona as chaves do Pescador (perguntas 1184, 1185 e 1190). |
 | Marcelo Fabiano | 2026-11-14 13:55 | Adiciona as chaves da descarga. |
 | Marcelo Fabiano | 2026-11-14 10:00 | Adiciona a bateria do retorno automático. |
 | Marcelo Fabiano | 2026-11-14 09:00 | Adiciona as chaves do modo área. |
